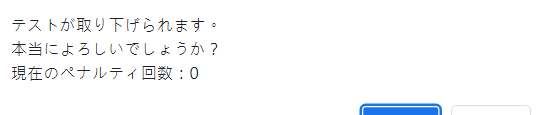
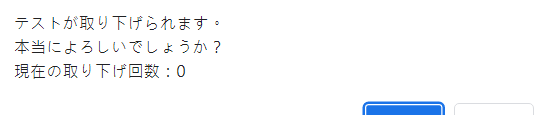
4/1應該完成了

diff --git a/client/pages/rules.js b/client/pages/rules.js
@@ -12,7 +12,7 @@ export default function Rules(){
           <p>1.まずは登録。</p>
           <p>2.登録完了したら自動にログイン画面に遷移します。<br/>ここで先ほど登録したアカウントとパスワードを入力します。</p>
           <p>3.ログイン成功したら、自動にプロフィール画面に遷移します。</p>
-          
+          <img width={`300px`} src="/pictures/profile.png"/>
           <div className="profileCorner">
             <p className="title">プロフィールについて：</p>
             <div className="aboutPoint">
@@ -51,9 +51,9 @@ export default function Rules(){
             </div>
             <div id="aboutPenalty" className="aboutPenalty">
               <p className="blockTitle">「ペナルティ」について：</p>
-              <p>1.テストの取り下げを行うたびに「ペナルティ回数」が増えます。<br/>この「ペナルティ回数」が三回になると、「ペナルティ」を課せられ、十日間の「ペナルティ期間」に入ります。</p>
+              <p>1.テストの取り下げを行うたびに「取り下げ回数」が増えます。<br/>この「取り下げ回数」が三回になると、「ペナルティ」を課せられ、十日間の「ペナルティ期間」に入ります。</p>
               <p>2.「ペナルティ期間」では<strong>出題＆取り下げができない</strong>ので、くれぐれもご注意ください。</p>
-              <p>3.「ペナルティ回数」は毎月一日でリセットされます。<br/>つまり、毎月は二回までペナルティなしに取り下げができます。</p>
+              <p>3.「取り下げ回数」は毎月一日０時にリセットされます。<br/>つまり、毎月は二回までペナルティなしに取り下げができます。</p>
             </div>
           </div>
           
@@ -72,7 +72,7 @@ export default function Rules(){
           {/* 題目的說明的「そんな島に」改成「そんな島で」
           「重度な方向音痴で、その上びびり屋だからである」
           重新截圖*/}
-          <p><small>※「説明はこちらへ」をクリックすれば、先ほど入力した説明文が出てきます。<br/>ジャン先生になりきって説明を考えてみましょう。</small></p>
+          <p><small>※「説明はこちらへ」をクリックすれば、先ほど入力した説明文が出てきます。こんな感じです。<br/>ジャン先生になりきって説明を考えてみましょう。</small></p>
           <img width={`350px`} src="/pictures/publishDes.png"/>
           <p className="patch">「編集」について：<br/><small>※テストの編集は「まだ誰も回答していない」＆テストが「回答受付中」の場合に限る。</small></p>
           <p>1.「編集する」をクリック。</p>
@@ -82,26 +82,38 @@ export default function Rules(){
           <img width={`300px`} src="/pictures/testNav.png"/>
           <p>1.「取り下げる」をクリックすると、確認メッセージが出てきます。</p>
           <img width={`300px`} src="/pictures/deleteConfirm.png"/>
-          <p>2.「ペナルティ」については<Link href="#aboutPenalty" passHref>こちら</Link>。</p>
+          {/* 換圖片 */}
+          <p>2.「取り下げ回数」については<Link href="#aboutPenalty" passHref>こちら</Link>。</p>
 
         </section>
         <section className="predictCorner">
           <p className="title"><strong>予知</strong>について：</p>
-          <p>1.他人の出題したかつ回答受付中のテスト画面では、「予知を行う」のボタンが出てきます。これをクリック。</p>
+          <p>1.他人の出題したかつ回答受付中のテストのページでは、「予知を行う」のボタンが出てきます。これをクリック。</p>
           <img width={`300px`} src="/pictures/predict.png"/>
           <p>2.入れたい選択肢をクリックし、旗を立てるかどうかと投入するポイントを決め、「予知を行う」をクリック。<br/></p>
           <img width={`300px`} src="/pictures/toPredict.png"/>
-          {/* 數字框要加大所以這張圖之後要改 先做到這裡*/}
+          <p>4.完成！<br/>また、一つのテストに対して、最大４回まで予知できます。</p>
+          <img width={`300px`} src="/pictures/predictSuccess.png"/>
+          <p><small>※ちなみに、旗立ててない選択肢はピンクになります。</small></p>
+          <img width={`300px`} src="/pictures/predictPink.png"/>
         </section>
         <section className="checkOutCorner">
           <p className="title"><strong>答え合わせ</strong>について：</p>
-          <p>1.「答え合わせ待ち」のテスト画面では、「答え合わせを行う」のボタンが出てきます。これをクリック。</p>
-          <p>2.正解となる選択肢をクリック。</p>
-          <p><small>※選択肢をクリックすると、このように該当選択肢の内容が定型文として出てきます。もちろん、自分で修正したり内容を加えたりすることも可能です。</small></p>
-          <p>3.「答え合わせを行う」をクリック。</p>
-          <p>4.完成！</p>
-          <p><small>※説明文は、先ほど入力した内容に変わります。</small></p>
+          <p>1.締め切りを過ぎたテストのページでは、「答え合わせを行う」のボタンが出てきます。これをクリック。</p>
+          <img width={`300px`} src="/pictures/checkOut.png"/>
+          <p>2.正解となる選択肢を決めて、「答え合わせを行う」をクリック。</p>
+          <img width={`300px`} src="/pictures/toCheckOut.png"/>
+          <p><small>※選択肢をクリックすると、このように該当選択肢の内容がテンプレとして「説明」のところに出てきます。もちろん、自分で修正したり内容を加えたりすることも可能です。</small></p>
+          <p>3.完成！
+            <br/>このように正解となった選択肢はふんわりと光るようになります。
+          </p>
+          <img width={`300px`} src="/pictures/checkOutSuccess.png"/>
+          <p><small>※光り具合については、色々調整してたらこんな感じに落ち着いたのですが、「こんなの分からないよー！」とか「眩しすぎるー！」って方がいらっしゃったら教えていただけると幸いです…</small></p>
+          <p><small>※ちなみに説明文は、先ほど入力した内容に変わります。</small></p>
+          <img width={`300px`} src="/pictures/checkOutedDes.png"/>
         </section>
+        <p>予言テストの流れは以上です。<br/>不明点がありましたら、<Link href={`/contact`}>こちら</Link>までご連絡ください。
+        </p>
       </div>
 
     </Layout>

diff --git a/client/styles/globals.css b/client/styles/globals.css
@@ -1341,10 +1341,6 @@ section.privacy-policy a {
 .publishCorner p, .predictCorner p, .checkOutCorner p {
   margin: 1rem 0;
 }
-.publishCorner img, .predictCorner img, .checkOutCorner img {
-  display: block;
-  margin: auto;
-}
 .publishCorner .delete, .publishCorner .patch, .predictCorner .delete, .predictCorner .patch, .checkOutCorner .delete, .checkOutCorner .patch {
   padding-top: 0.5rem;
   border-top: #5E654A 2px dashed;
@@ -1354,6 +1350,14 @@ section.privacy-policy a {
   line-height: 1.5em;
   color: #311b15;
   padding: 1rem;
+}
+.rulesBody a {
+  text-decoration: underline;
+  color: #2e2c0d;
+}
+.rulesBody img {
+  display: block;
+  margin: auto;
 }
 .rulesBody .blockTitle {
   margin-bottom: 0.5rem;
@@ -1409,6 +1413,11 @@ section.privacy-policy a {
   transform: translateX(10px);
 }
 
+.signUpAndLoginCorner img {
+  display: block;
+  margin: 1rem auto;
+}
+
 /* 滾動條的整體樣式 */
 ::-webkit-scrollbar {
   width: 5px;
@@ -1460,46 +1469,6 @@ html::-webkit-scrollbar-track {
   ::-ms-scrollbar-thumb {
     background-color: #882929;
     border-radius: 5px;
-  }
-}
-div.loading {
-  width: 350px;
-  margin: auto;
-}
-
-#load {
-  display: flex;
-  justify-content: center;
-  align-items: center;
-  margin: 2rem auto;
-  width: 100px;
-  animation: loading 3s linear infinite;
-}
-#load #loading-inner {
-  stroke-dashoffset: 0;
-  stroke-dasharray: 300;
-  stroke-width: 10;
-  stroke-miterlimit: 10;
-  stroke-linecap: round;
-  animation: loading-circle 2s linear infinite;
-  stroke: #311b15;
-  fill: transparent;
-}
-
-@keyframes loading {
-  0% {
-    transform: rotate(0);
-  }
-  100% {
-    transform: rotate(360deg);
-  }
-}
-@keyframes loading-circle {
-  0% {
-    stroke-dashoffset: 0;
-  }
-  100% {
-    stroke-dashoffset: -600;
   }
 }
 .resourcePage {

diff --git a/client/styles/globals.scss b/client/styles/globals.scss
@@ -1410,17 +1410,22 @@ section.privacy-policy{
   p{
     margin: 1rem 0 ;
   }
-  img{
-    display: block;
-    margin:  auto;
-  }
   .delete,.patch{
     padding-top: .5rem;
     border-top: #5E654A 2px dashed;
   }
 }
 
+
 .rulesBody{
+  a{
+    text-decoration: underline;
+    color: #2e2c0d;
+  }
+  img{
+    display: block;
+    margin:  auto;
+  }
   line-height: 1.5em;
   .blockTitle{
     &::before{
@@ -1478,6 +1483,14 @@ section.privacy-policy{
     &::after{
       transform: translateX(10px);
     }
+  }
+}
+
+
+.signUpAndLoginCorner{
+  img{
+    display: block;
+    margin: 1rem auto;
   }
 }
 
@@ -1539,47 +1552,7 @@ html::-webkit-scrollbar-track {
   }
 }
 
-div.loading{
-  width: 350px;
 
-  margin: auto;
-}
-#load {
-  display: flex;
-  justify-content: center;align-items: center;
-  margin:2rem auto;
-  width: 100px;
-  animation: loading 3s linear infinite;
-  #loading-inner {
-    stroke: {
-      dashoffset: 0;
-      dasharray: 300;
-      width: 10;
-      miterlimit: 10;
-      linecap: round;
-    }
-    animation: loading-circle 2s linear infinite;
-    stroke: #311b15;
-    fill: transparent;
-  }
-}
-
-@keyframes loading {
-  0% { 
-    transform: rotate(0); 
-  }
-  100% { 
-    transform: rotate(360deg);
-  }
-}
-@keyframes loading-circle {
-  0% { 
-    stroke-dashoffset: 0
-  }
-  100% { 
-    stroke-dashoffset: -600;
-  }
-}
 
 .resourcePage{
   color: #311b15;

diff --git a/client/pages/profile/[id].js b/client/pages/profile/[id].js
@@ -135,7 +135,7 @@ export default function UserProfile({data}){
       <p>{isTheUserSame &&`所持ポイント：${data.foundUser.predictionPoints}`}</p>
       <p>{`予言ランク：${data.foundUser.level}`}</p>
       {isTheUserSame &&<div className="expBar"><div style={{ width: `calc(300 * ${expPro}px)`,transition: "width .5s ease-out" }} className="expBarIn"></div><small>ランクアップまであと{data.foundUser.expForNextLevel}exp</small></div>}
-      {isTheUserSame && <p className="penaCounter">{`ペナルティ回数：${data.foundUser.penaltyCount}`}</p>}
+      {isTheUserSame && <p className="penaCounter">{`取り下げ回数：${data.foundUser.penaltyCount}`}</p>}
       {/*下面的 data.foundUser.isPenalized && 暫時先拿掉*/}
       {isTheUserSame && data.foundUser.isPenalized && <div className="isPenalty">
         <p className="penaltyAlert" style={{marginTop:"1rem"}}>ペナルティ期間中のため、出題およびテストの取り下げは行えません。</p>

diff --git a/client/pages/PredictionTests/newTest.js b/client/pages/PredictionTests/newTest.js
@@ -163,7 +163,7 @@ export default function NewTest(){
         <br/>
         <label className="test-deadline" htmlFor="test-deadline">締め切り：</label>
         <input id="test-deadline" name="deadline" type="date" min={minDate} max={maxDate} required onChange={handleFormData}/>
-        <p style={{marginBottom:"0rem"}} className="newTestNotice"><small>※締め切りは出題の48時間後から90日後まで選択できます。</small></p>
+        <p style={{marginBottom:"0rem"}} className="newTestNotice"><small>※締め切りは出題の２日後から９０日後まで選択できます。</small></p>
         <br/>
         <label className="test-bonus" htmlFor="test-bonus">基礎ポイント：</label>
         <input id="test-bonus" name="bonus" type="number" min="20" required placeholder="最低20ポイントが必要です。"

diff --git a/client/pages/PredictionTests/[id].js b/client/pages/PredictionTests/[id].js
@@ -187,7 +187,7 @@ export default function Test({data}){
     console.log(latestUserData)
 
     
-    let confirm = window.confirm(`テストが取り下げられます。\n本当によろしいでしょうか？\n現在のペナルティ回数：${latestUserData.foundUser.penaltyCount}`);
+    let confirm = window.confirm(`テストが取り下げられます。\n本当によろしいでしょうか？\n現在の取り下げ回数：${latestUserData.foundUser.penaltyCount}`);
     if(confirm){
       console.log("確定要刪除")
       try{
